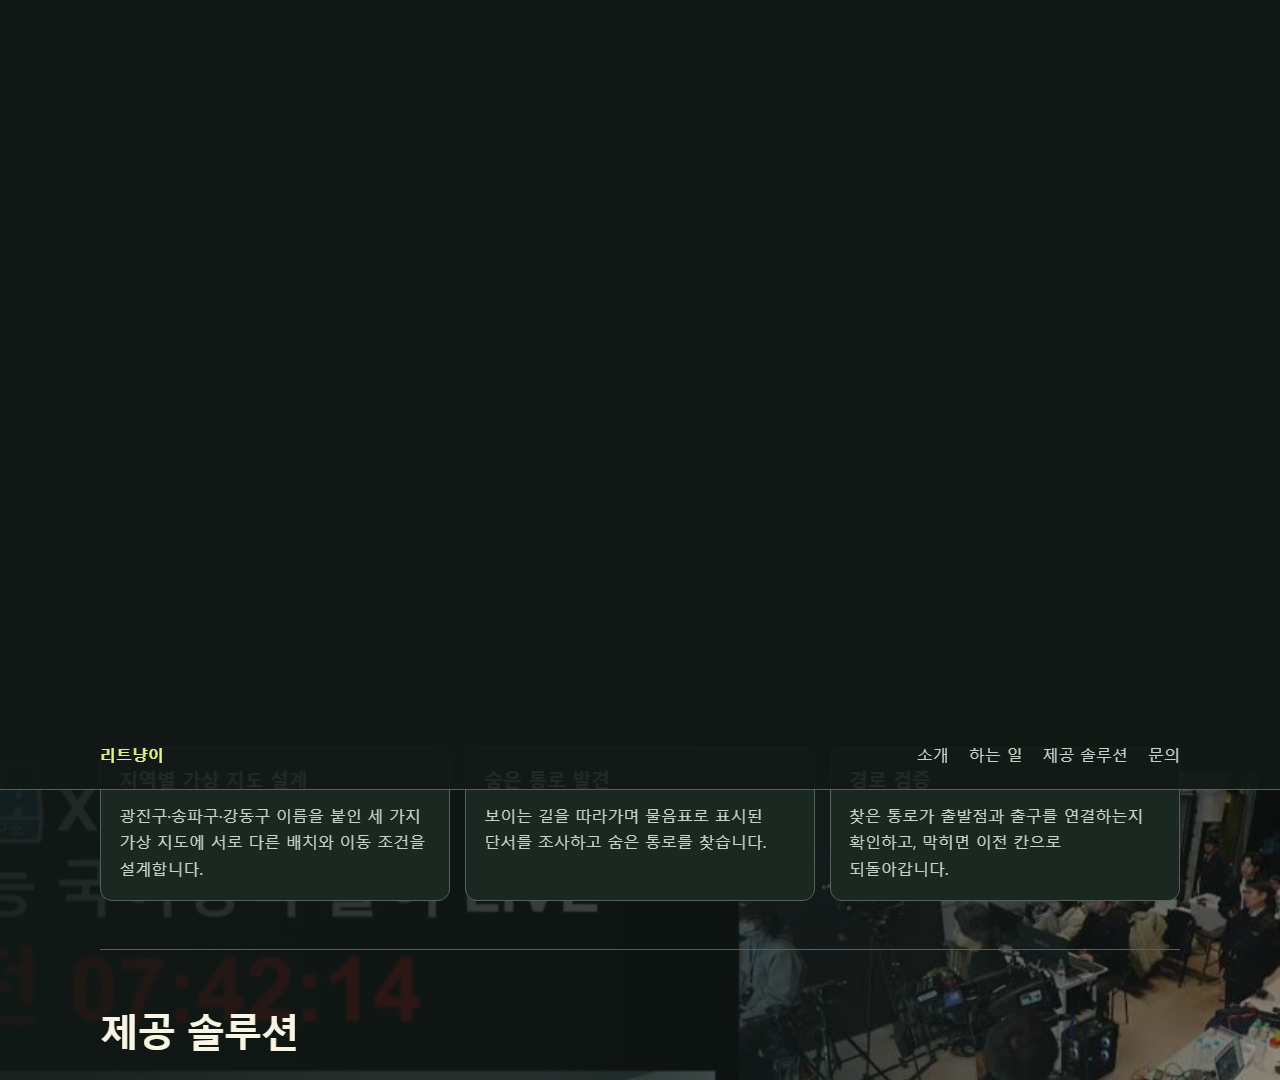
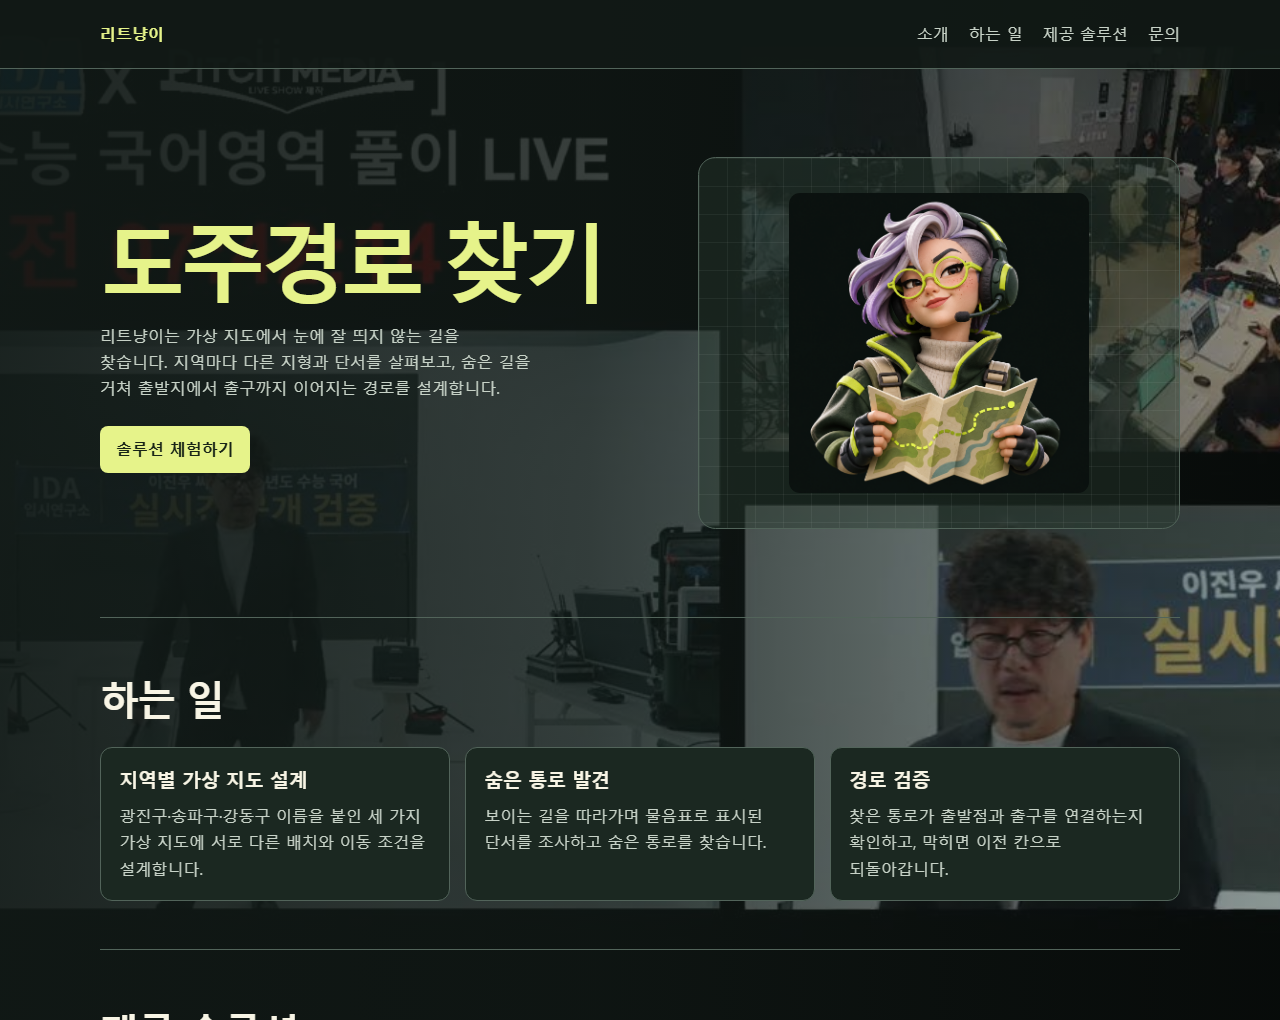
실습2: 리트냥이 3D 분석가 로고 재제출

diff --git a/실습2_홈페이지/리트냥이/index.html b/실습2_홈페이지/리트냥이/index.html
@@ -103,7 +103,7 @@
         <p>리트냥이는 가상 지도에서 눈에 잘 띄지 않는 길을 찾습니다. 지역마다 다른 지형과 단서를 살펴보고, 숨은 길을 거쳐 출발지에서 출구까지 이어지는 경로를 설계합니다.</p>
         <a class="button" href="#tools">솔루션 체험하기</a>
       </div>
-      <div class="logo-frame"><img src="images/logo.png" width="1254" height="1254" alt="연두색 고양이 얼굴과 점선으로 꾸민 리트냥이 로고"></div>
+      <div class="logo-frame"><img src="images/logo.png" width="1254" height="1254" alt="연두색 안경과 헤드셋을 쓰고 지도를 펼친 가상 3D 분석가 로고"></div>
     </section>
     <section class="block" id="work">
       <h2>하는 일</h2>

diff --git a/실습2_홈페이지/리트냥이/logo-prompt.md b/실습2_홈페이지/리트냥이/logo-prompt.md
@@ -2,10 +2,9 @@
 
 ~~~text
 가상 지도에서 길을 탐색하는 퍼즐 팀 '리트냥이'의 로고를 만들어 줘.
-검녹색(#101414) 정사각형 배경에 연두색(#E6F38A) 고양이 얼굴 아이콘을 그려 줘.
-고양이 얼굴 주변에 짧은 점선과 체크포인트 점 하나를 배치해 지도 퍼즐을 표현해 줘.
-아이콘 아래에 한글 팀 이름 '리트냥이'를 정확히 넣어 줘. 글자는 굵은 산세리프체로 부탁해.
-평면 색과 단순한 윤곽을 사용하고, 작게 보일 때도 읽히도록 여백을 남겨 줘.
+검녹색(#101414) 정사각형 배경에 독창적인 3D 지도 분석가 캐릭터를 그려 줘.
+보랏빛 머리, 연두색(#E6F38A) 안경, 헤드셋, 점선 경로가 그려진 접이식 지도를 사용해 줘.
+작게 표시해도 얼굴과 지도 형태가 뚜렷하도록 가운데에 인물을 배치하고 여백을 남겨 줘.
 ~~~
 
 결과 파일은 `images/logo.png`로 저장한다.

diff --git a/실습2_홈페이지/리트냥이/prd.md b/실습2_홈페이지/리트냥이/prd.md
@@ -9,4 +9,4 @@
 | 제공 솔루션 | 광진구·송파구·강동구 이름을 붙인 가상 지도에서 경로를 탐색하고 이동 횟수를 확인하는 분석기 |
 | 문의 | 리트냥이 지도 탐색팀 라온과 예시 이메일 `raon.ritnyangi@example.com` |
 
-짙은 녹색 배경에 연두색 고양이 로고를 배치한다. 홈페이지 파일은 `index.html`, 로고는 `images/logo.png`를 사용한다. 작은 화면에서는 카드가 한 열로 배치되고 모바일 메뉴는 버튼으로 열고 닫을 수 있어야 한다.
+짙은 녹색 배경에 연두색 안경과 헤드셋을 쓴 가상 3D 지도 분석가 로고를 배치한다. 홈페이지 파일은 `index.html`, 로고는 `images/logo.png`를 사용한다. 작은 화면에서는 카드가 한 열로 배치되고 모바일 메뉴는 버튼으로 열고 닫을 수 있어야 한다.

diff --git a/실습2_홈페이지/리트냥이/build-plan.md b/실습2_홈페이지/리트냥이/build-plan.md
@@ -1,7 +1,7 @@
 # 리트냥이 팀 홈페이지 제작 계획서
 
 1. 상단 메뉴를 소개, 하는 일, 도구, 문의에 연결한다.
-2. 소개에 ‘도주경로 찾기’ 문구와 기존 연두색 고양이 로고를 표시한다.
+2. 소개에 ‘도주경로 찾기’ 문구와 가상 3D 지도 분석가 로고를 표시한다.
 3. 가상 지도 설계, 숨은 통로 발견, 경로 검증을 업무 카드로 소개한다. 제공 솔루션에는 광진구·송파구·강동구 보드를 선택할 수 있는 가상 경로 분석기를 배치한다.
 4. 모바일에서 메뉴를 접고, 업무 카드를 화면 폭에 따라 3열, 2열, 1열로 배치한다.
 5. 브라우저에서 `index.html`을 열고 링크, 로고, 375px 화면과 키보드 메뉴를 확인한다.

diff --git a/실습2_홈페이지/리트냥이/README.md b/실습2_홈페이지/리트냥이/README.md
@@ -10,7 +10,7 @@
 
 ## 페이지 구성
 
-- 소개와 고양이 로고
+- 팀 소개와 가상의 3D 지도 분석가 로고
 - 대표 업무 카드 세 장
 - 광진구·송파구·강동구 이름을 붙인 가상 실습 지도를 제공하는 경로 분석기
 - 리트냥이 지도 탐색팀 담당자와 예시 이메일
@@ -25,4 +25,4 @@ https://leetcat-theta.vercel.app
 
 ## 만들면서 배운 점
 
-같은 로고를 활용하면서 화면 폭에 따라 카드와 메뉴를 다르게 배치했다.
+가상의 3D 지도 분석가를 로고로 적용하고, 화면 폭에 따라 카드와 메뉴를 다르게 배치했다.
